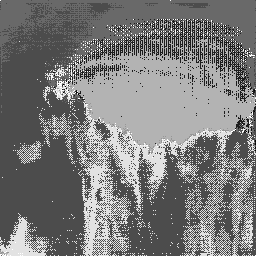
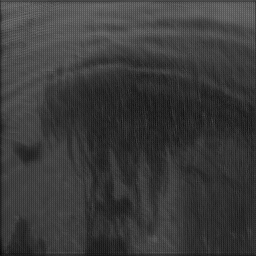
Save images in grayscale based on accuracy of model for choosen class

diff --git a/utils.py b/utils.py
@@ -27,7 +27,6 @@ def get_loaders(
         mask_dir=train_maskdir,
         transform=train_transform,
     )
-    print(train_ds)
 
     train_loader = DataLoader(
         train_ds,
@@ -37,6 +36,7 @@ def get_loaders(
         shuffle=True,
     )
     print("Train loader initialized")
+
     val_ds = CarvanaDataset(
         image_dir=val_dir,
         mask_dir=val_maskdir,
@@ -72,25 +72,18 @@ def check_accuracy(loader, model, device="cuda"):
                 (preds + y).sum() + 1e-8
             )
 
-    print(
-        f"Got {num_correct}/{num_pixels} with acc {num_correct/num_pixels*100:.2f}"
-    )
+    print( f"Got {num_correct}/{num_pixels} with acc {num_correct/num_pixels*100:.2f}")
     print(f"Dice score: {dice_score/len(loader)}")
     model.train()
 
-def save_predictions_as_imgs(
-    loader, model, folder="saved_images/", device="cuda"
-):
+def save_predictions_as_imgs( loader, model, folder="saved_images/", device="cuda"):
     model.eval()
     for idx, (x, y) in enumerate(loader):
         x = x.to(device=device)
         with torch.no_grad():
-            preds = torch.relu(model(x))
-            preds = (preds > 0).float()
-            preds[preds > 0] = torch.unique(y)[1]
-        torchvision.utils.save_image(
-            torchvision.transforms.functional.rgb_to_grayscale(preds), f"{folder}/pred_{idx}.png"
-        )
+            preds = torch.relu(model(x)).float()
+            preds = torch.max(preds, 1, True)[0]
+        torchvision.utils.save_image(preds, f"{folder}/pred_{idx}.png")
         torchvision.utils.save_image(y.unsqueeze(1), f"{folder}{idx}.png")
 
     model.train()

diff --git a/train.py b/train.py
@@ -17,8 +17,8 @@ from utils import (
 LEARNING_RATE = 1e-4
 DEVICE = "cuda" if torch.cuda.is_available() else "cpu"
 BATCH_SIZE = 1
-NUM_EPOCHS = 3
-NUM_WORKERS = 2
+NUM_EPOCHS = 1
+NUM_WORKERS = 4
 IMAGE_HEIGHT = 256  # 1280 originally
 IMAGE_WIDTH = 256  # 1918 originally
 PIN_MEMORY = True
